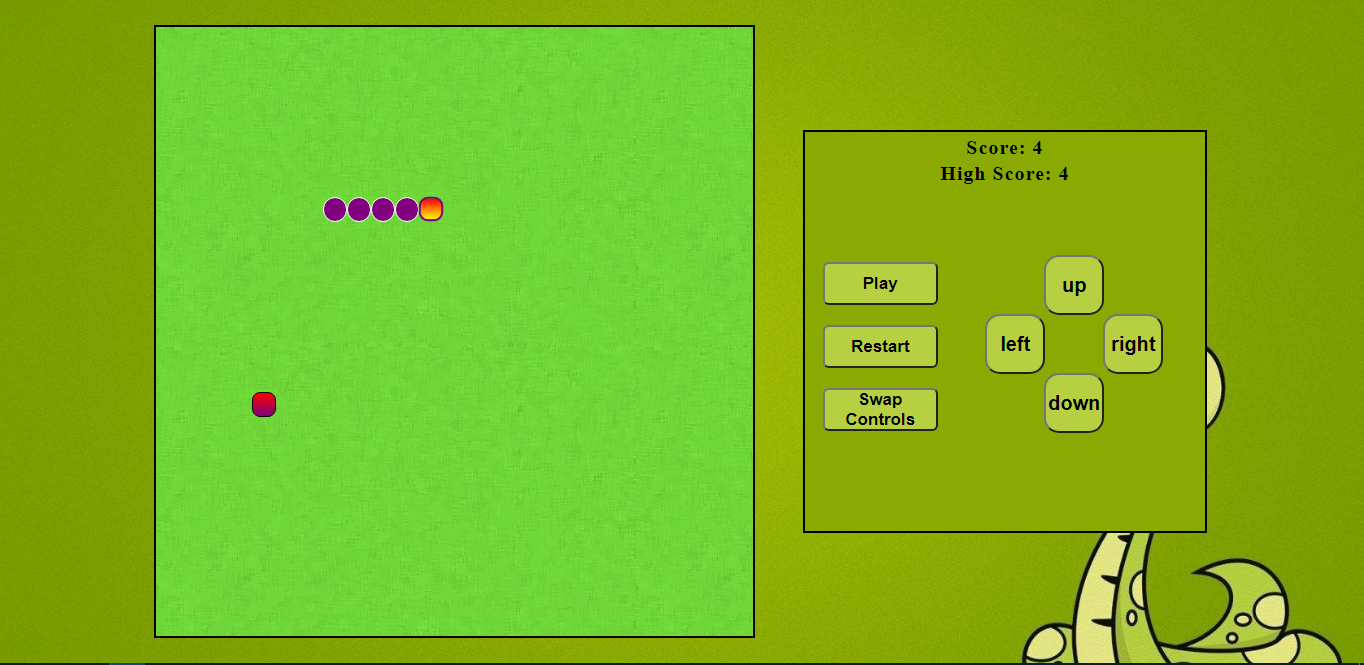
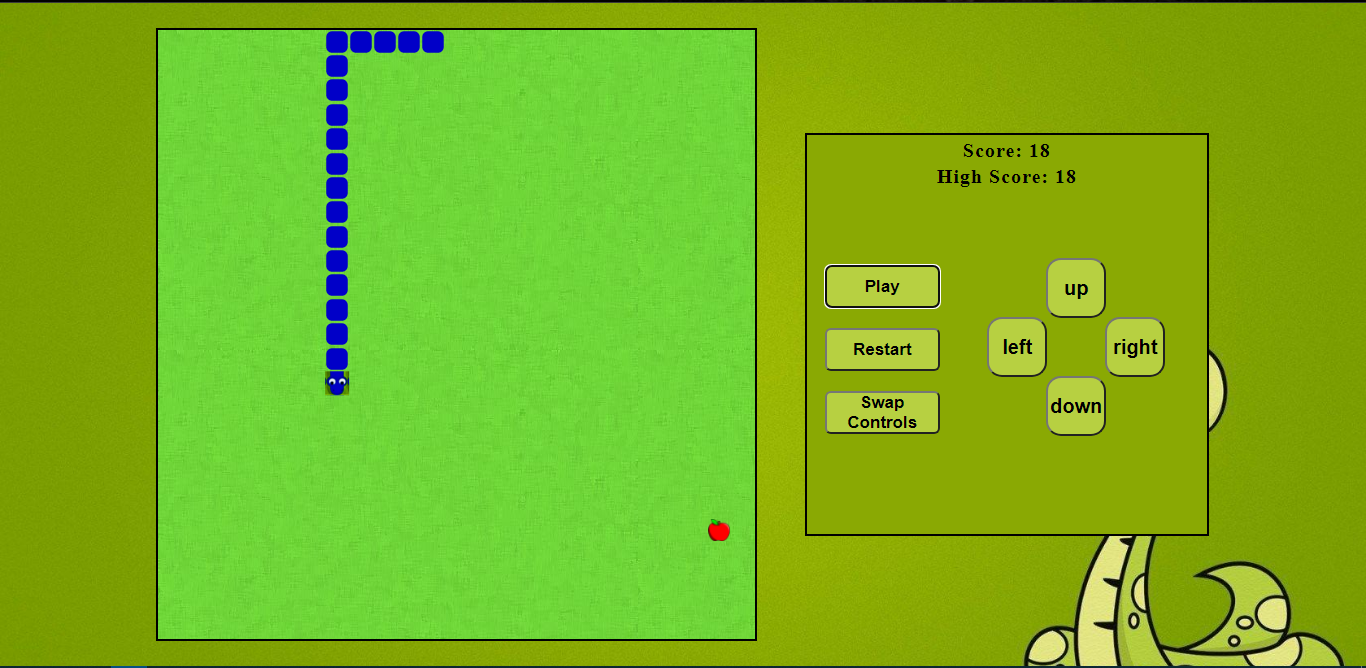
made the snake

diff --git a/static/dev_tools/snake_game/js/index.js b/static/dev_tools/snake_game/js/index.js
@@ -159,6 +159,18 @@ function gameEngine() {
         snakeElement.style.gridColumnStart = e.x;
         if (index === 0) {
             snakeElement.classList.add('head');
+            if (inputDir.x === -1 && inputDir.y === 0) {
+                snakeElement.style.transform = "rotate(180deg)";
+            }
+            else if (inputDir.x === 0 && inputDir.y === 1) {
+                snakeElement.style.transform = "rotate(90deg)";
+            }
+            else if (inputDir.x === 0 && inputDir.y === -1) {
+                snakeElement.style.transform = "rotate(270deg)";
+            }
+            else{
+                snakeElement.style.transform = "rotate(0deg)";
+            }
         }
         else {
             snakeElement.classList.add('snake');
@@ -217,10 +229,10 @@ window.addEventListener('keydown', e => {   // keyboard controls
     }
 });
 
-musicSound.play();
-let music = setInterval(() => {
-    musicSound.play();
-}, 1);
+// musicSound.play();
+// let music = setInterval(() => {
+//     musicSound.play();
+// }, 1);
 
 
 

diff --git a/static/dev_tools/snake_game/css/style.css b/static/dev_tools/snake_game/css/style.css
@@ -25,20 +25,27 @@
 }
 
 .head{
-    background: linear-gradient(red, yellow);
-    border: 2px solid purple;
-    border-radius: 9px;
-    transform:scale(1.02)
+    background: url('../head.png') center;
+    background-size: 100%;
+    transform:scale(1.02);
 }
 .snake{
-    background-color: purple;
-    border: .25vmin solid white;
-    border-radius: 12px;
+    background-color: #0100c8;
+    /* border: 0.25vmin solid #0100c8; */
+    border-radius: 27%;
+    /* width: 1%; */
+    height: 100%;
+    margin: auto 0px;
+    transform: scale(0.9);
+ }
+ .snake:last-child{
+     border-radius: 100%;
  }
 .food{
-    background:linear-gradient(red, purple);
-    border: .25vmin solid black;
-    border-radius: 8px;
+    background: url(../food.png) center no-repeat;
+    /* border: 0.25vmin solid black; */
+    border-radius: 6px;
+    background-size: 93%;
 }
 
 .controlpanel{
